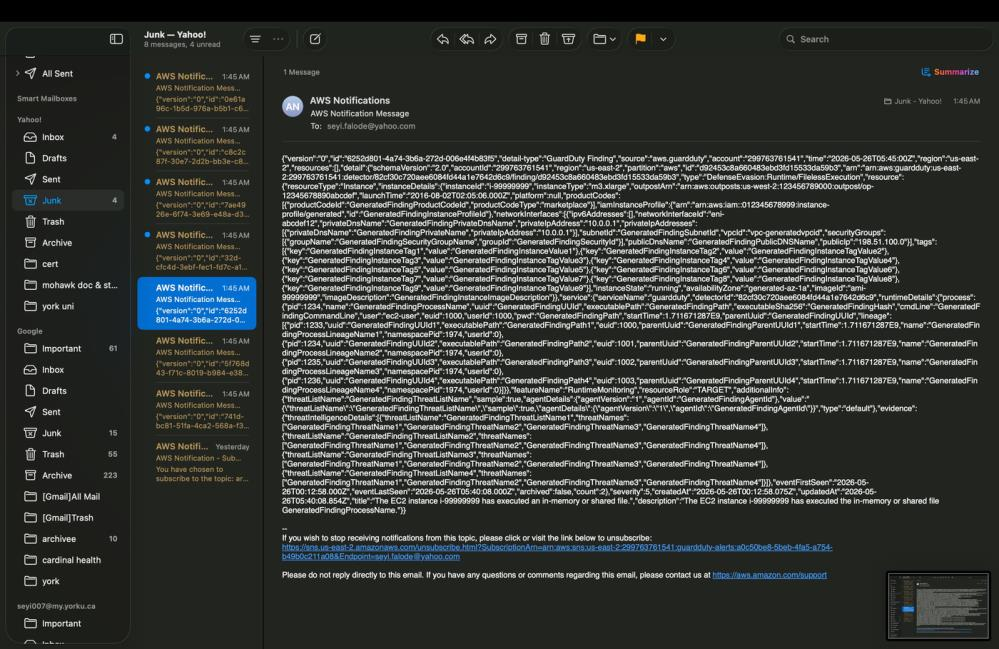
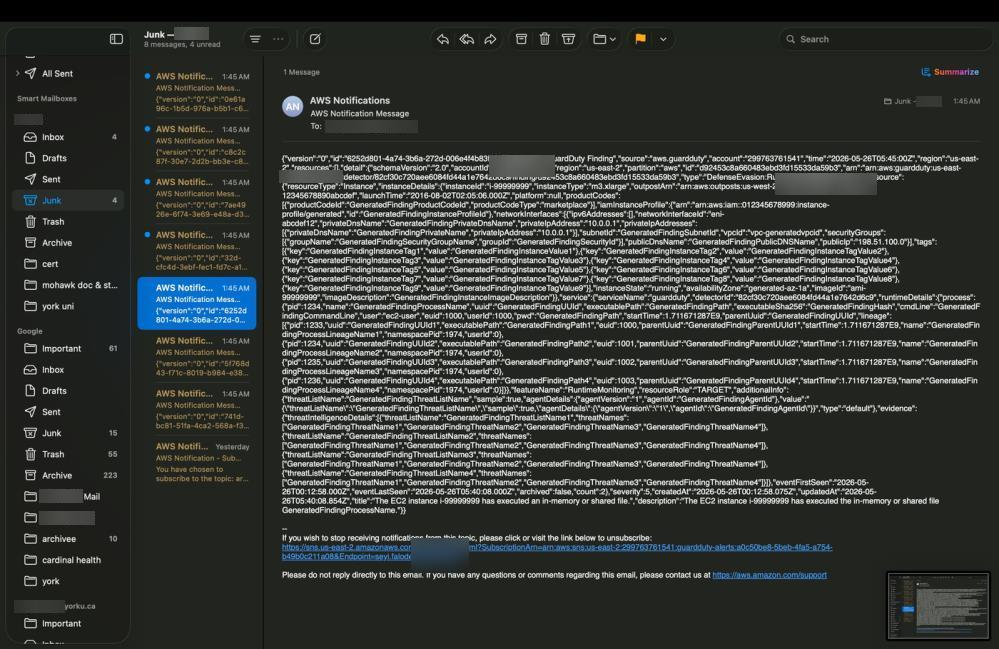
Redact account ID and email from screenshots and docs

diff --git a/README.md b/README.md
@@ -174,8 +174,8 @@ Amazon SNS handles the human-facing side of the pipeline. When EventBridge route
 
 **Configuration:**
 - Topic name: `guardduty-alerts` | Type: Standard | Region: us-east-2
-- ARN: `arn:aws:sns:us-east-2:299763761541:guardduty-alerts`
-- Subscription: Email → seyi.falode@yahoo.com | Status: Confirmed
+- ARN: `arn:aws:sns:us-east-2:<ACCOUNT_ID>:guardduty-alerts`
+- Subscription: Email → my alert inbox | Status: Confirmed
 
 > **Production note:** Confirmation email landed in Yahoo Junk — whitelist AWS notification emails (`no-reply@sns.amazonaws.com`) in any production deployment.
 
@@ -289,7 +289,7 @@ CloudTrail captures every API call made in the account. When Lambda auto-remedia
 
 **Trail Configuration:**
 - Trail name: `guardduty-audit-trail` | Region: us-east-2 | Multi-region: Yes
-- S3 bucket: `guardduty-audit-logs-299763761541` — auto-provisioned during trail setup
+- S3 bucket: `guardduty-audit-logs-<ACCOUNT_ID>` — auto-provisioned during trail setup
 - CloudWatch Logs integration: Enabled — real-time alerting on specific API patterns
 - Log file validation: Enabled — detects tampering with stored log files
 - Status: Logging
@@ -307,7 +307,7 @@ A CloudWatch dashboard named `GuardDuty-Detection-Pipeline` provides real-time v
 **Dashboard Metrics:**
 - `IncomingBytes` — volume of log data flowing into the CloudTrail log group
 - `IncomingLogEvents` — number of individual log events being ingested per minute
-- Log groups monitored: `aws-cloudtrail-logs-299763761541-37511b37` and `detection-lab-cloudtrail-logs`
+- Log groups monitored: `aws-cloudtrail-logs-<ACCOUNT_ID>-37511b37` and `detection-lab-cloudtrail-logs`
 
 ![CloudWatch Homepage](screenshots/screenshot-19-cloudwatch-homepage.jpg)
 
@@ -338,7 +338,7 @@ With all eight components wired together, the pipeline was tested by generating 
 |---|---|
 | Total sample findings generated | 391 across all severity levels and finding types |
 | EventBridge firing | Fired for all MEDIUM and HIGH findings (severity >= 4) |
-| SNS alert emails received | 8 emails at seyi.falode@yahoo.com within seconds |
+| SNS alert emails received | 8 emails delivered to my alert inbox within seconds |
 | Alert payload | Full JSON finding payloads including resource details, timestamps, MITRE mappings |
 | Lambda invocation | Invoked for HIGH severity findings — execution logs confirmed in CloudWatch |
 
